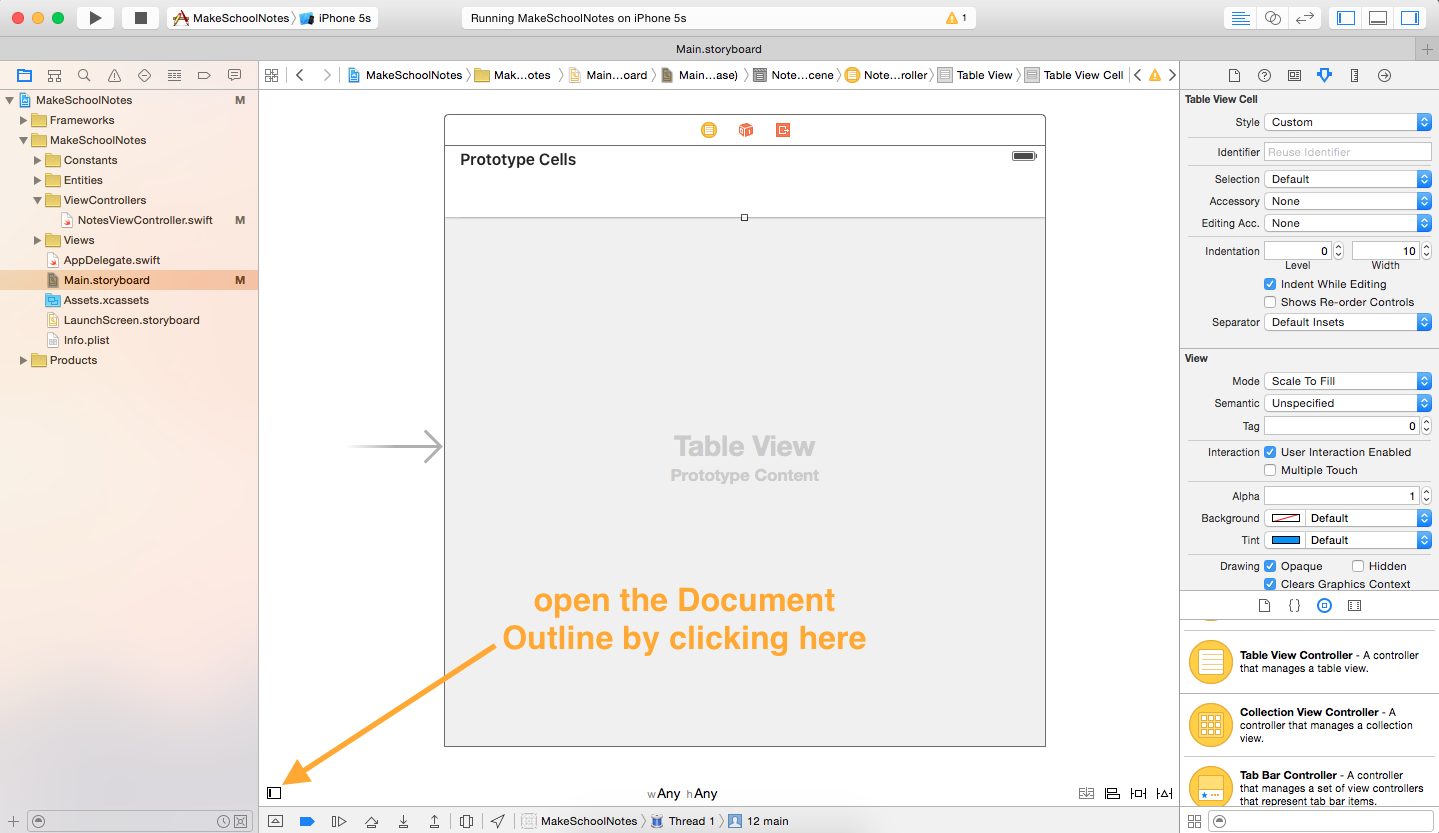
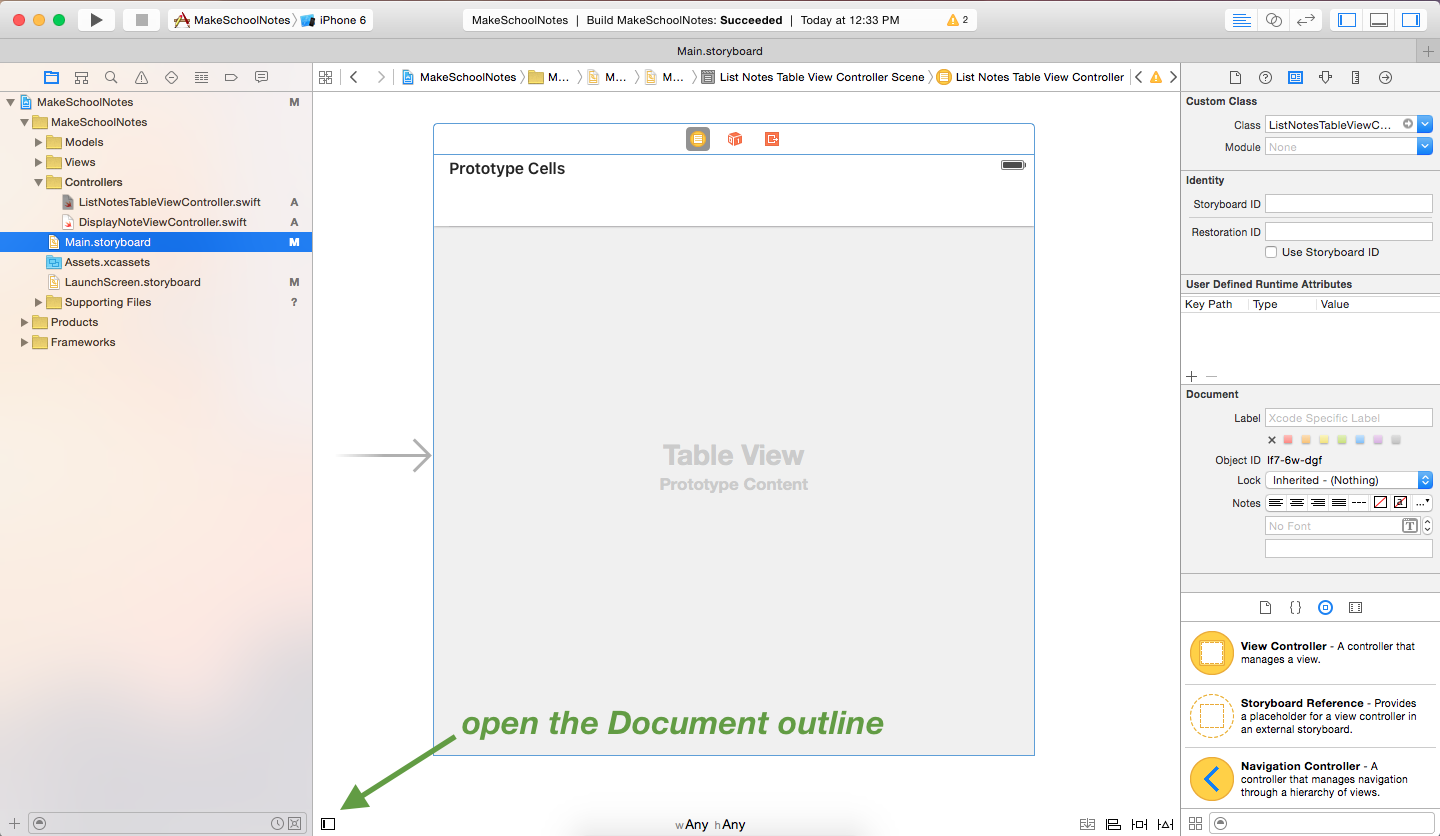
Update P1
* modify images
* modify view controller naming for clarity

diff --git a/P1-Setting-Up-Table-Views/content.md b/P1-Setting-Up-Table-Views/content.md
@@ -8,12 +8,12 @@ We can think of table views as regular views that have been given extra function
 
 Table views are instances of the `UITableView` class and can be created in three ways: programmatically, visually using Interface Builder, or by using a *table view controller*. (For more information on table views check out this [explanation--BROKEN LINK](link to table view discussion))
 
-For the table view in **Make School Notes**, we will be using a *table view controller* as it is the easiest to get working.
+For the table view in Make School Notes, we will be using a *table view controller* as it is the easiest to get working.
 
 The starter project that you downloaded earlier already contains a table view controller, let's take a look at it now.
 
 > [action]
-Click the *Project navigator* icon, and select the `Main.storyboard` file:
+Click the *Project navigator* icon, expand the *MakeSchoolNotes* folder, and select the `Main.storyboard` file:
 >
 ![image illustrating how to open the Main.storyboard file](./images/open-main-storyboard.png)
 
@@ -21,19 +21,19 @@ Click the *Project navigator* icon, and select the `Main.storyboard` file:
 
 Table view controllers are the easiest way to use table views because they do a lot of the necessary table view setup for us. Table view controllers are instances of the `UITableViewController` class and, similar to table views, can be created programmatically or in Interface Builder.
 
-Although the table view controller in the starter project was created in Interface Builder, we will want to manipulate it from code. This situation is very common when building iOS apps and to make the connection from our objects in Interface Builder to code, we use a feature of Xcode called *custom classes*. We want to set the custom class of our table view controller to *NotesViewController*. The *NotesViewController*  class was included in the starter project and can be found in the `NotesViewController.swift` file.
+Although the table view controller in the starter project was created in Interface Builder, we will want to manipulate it from code. This situation is very common when building iOS apps and to make the connection from our objects in Interface Builder to code, we use a feature of Xcode called *custom classes*. We want to set the custom class of our table view controller to *ListNotesTableViewController*. The *ListNotesTableViewController* class was included in the starter project and can be found in the `ListNotesTableViewController.swift` file.
 
 > [action]
-Setup the code connection by selecting the table view controller in your storyboard, clicking the *Identity inspector* icon, and setting the *Class* field to "NotesViewController":
+Setup the code connection by selecting the table view controller in your storyboard, clicking the *Identity inspector* icon, and setting the *Class* field to "ListNotesTableViewController". (Note that when you have successfully selected the table view controller, it will be outlined in blue.)
 >
 ![image illustrating how to open the Main.storyboard file](./images/code-connection.png)
 
-Now that we have set the custom class of our table view controller, we will be able to programmatically make changes to our table view controller from inside the *NotesViewController* class. Let's see what code is already inside of the *NotesViewController* class.
+Now that we have set the custom class of our table view controller, we will be able to programmatically make changes to our table view controller from inside the *ListNotesTableViewController* class.
 
 > [action]
-Click the *Project navigator* icon, expand the *ViewControllers* folder, and select the `NotesViewController.swift` file.
+Click the *Project navigator* icon, expand the *Controllers* folder, and select the `ListNotesTableViewController.swift` file.
 >
-![image illustrating how to open the Main.storyboard file](./images/notesViewController.png)
+![image illustrating how to open the Main.storyboard file](./images/ListNotesTableViewController.png)
 
 Currently, there is nothing interesting in this file, but we will change that soon!
 
@@ -49,7 +49,7 @@ When displaying information, a table view *must* know two things:
 Let's add the necessary code to our project and discuss it afterwards.
 
 > [action]
-Add these two functions inside `NotesViewController.swift`:
+Add these two methods under the declaration of the *ListNotesTableViewController* class:
 >
     // 1
     override func tableView(tableView: UITableView, numberOfRowsInSection section: Int) -> Int {
@@ -59,7 +59,7 @@ Add these two functions inside `NotesViewController.swift`:
     // 2
     override func tableView(tableView: UITableView, cellForRowAtIndexPath indexPath: NSIndexPath) -> UITableViewCell {
       // 3
-      let cell = tableView.dequeueReusableCellWithIdentifier("noteTableViewCell", forIndexPath: indexPath)
+      let cell = tableView.dequeueReusableCellWithIdentifier("listNotesTableViewCell", forIndexPath: indexPath)
 >   
       // 4
       cell.textLabel?.text = "Yay - it's working!"
@@ -85,12 +85,15 @@ Before we can run our program, we need to set the identifier of the prototype ce
   ![image illustrating how to open the document outline](./images/document-outline.png)
 
 2. Select the *Table View Cell*.
+  ![image illustrating location of table view cell](./images/tableViewCell.png)
+
 3. Click the *Attributes inspector*.
-4. Enter "noteTableViewCell" into the *identifier* field.
+  ![image illustrating location of attributes inspector](./images/attributes-inspector.png)
 
-  ![image illustrating how to set reuse identifier](./images/reuse-identifier.png)
+4. Enter "listNotesTableViewCell" into the *identifier* field.
+  ![image illustrating location of identifier field](./images/identifier.png)
 
-Notice that when we changed the *identifier* of the cell to "noteTableViewCell", the name of the cell in the *Document Outline* changed from "Table View Cell" to "noteTableViewCell".
+Notice that when we changed the *identifier* of the cell to "listNotesTableViewCell", the name of the cell in the *Document Outline* changed from "Table View Cell" to "listNotesTableViewCell".
 
 ## Running the Program!
 
@@ -98,4 +101,4 @@ Now when you run the program you should see something like this:
 
 ![image of table view displaying data](./images/table-view-with-data.png)
 
-Congratulations - You have just successfully setup a table view controller! In the next tutorial let's customize our table view cells so that we can actually display our note's title and modification time.
+Congratulations - You have just successfully setup a table view controller! In the next tutorial we will customize our table view cells so that we can actually display our note's title and modification time.
